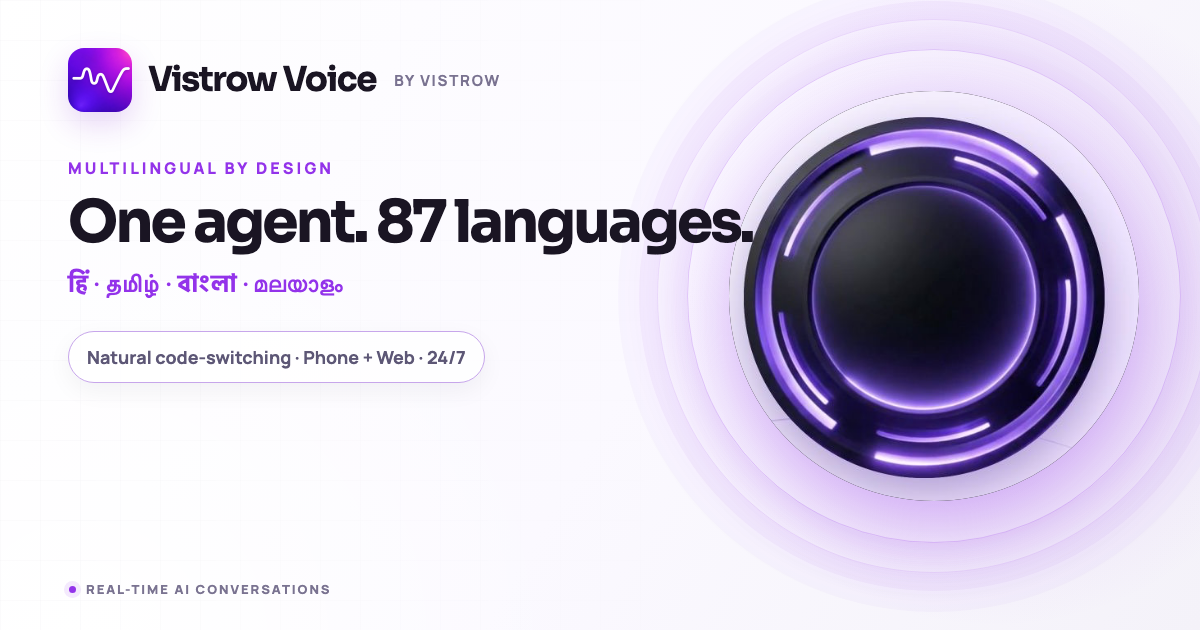
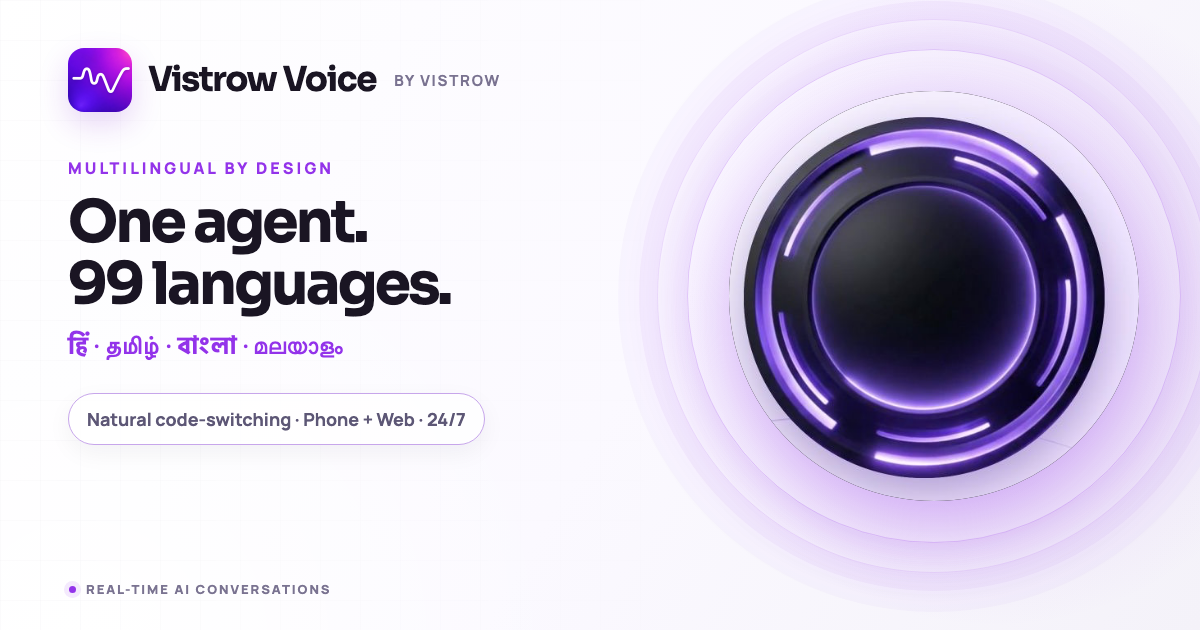
Languages: use Google's published Gemini Live list (99 languages) across the site
- 99 languages = 10 Indian + English + 88 more (was 87 / 76); list rebuilt from ai.google.dev/gemini-api/docs/live-guide
- drops 7 not on Google's list (Haitian Creole, Javanese, Konkani, Latin, Luxembourgish, Maithili, Malagasy); adds 27 (Hausa, Zulu, Welsh, Irish, Uzbek, Kazakh ...)
- the demo picker still offers only the locales the demo can speak (72 of the 99 languages), and the page says so
- home, languages, FAQs, stats, meta tags, llms.txt, social preview cards

Changed region(s): [[0.0308, 0.3921, 0.4008, 0.6937], [0.3083, 0.3016, 0.6475, 0.4222]]

diff --git a/web-demo/src/lib/marketingContent.ts b/web-demo/src/lib/marketingContent.ts
@@ -85,7 +85,7 @@ export const PRODUCT_DETAIL: Record<
     subhead:
       'A no-code builder for real-time AI phone agents. Set the persona, prompt, voice and language - publish, and Artha starts taking calls.',
     features: [
-      { icon: 'translate', title: 'Multilingual', body: 'Speaks 10 Indian languages plus English, including natural Hinglish, and switches mid-call with the caller — plus 76 more worldwide on the global voices.' },
+      { icon: 'translate', title: 'Multilingual', body: 'Speaks 10 Indian languages plus English, including natural Hinglish, and switches mid-call with the caller — plus 88 more worldwide.' },
       { icon: 'menu_book', title: 'Grounded answers', body: 'Ties responses to your knowledge base with strict-mode RAG, so the agent never makes things up.' },
       { icon: 'swap_calls', title: 'Human handoff', body: 'Escalates to a live person with full context when a call needs a human touch.' },
       { icon: 'analytics', title: 'Analytics & transcripts', body: 'Every call is transcribed, scored, and searchable across channels and agents.' },
@@ -592,7 +592,7 @@ export const GLOBAL_GREETINGS: { greeting: string; name: string }[] = [
 ]
 
 export const HERO_STATS = [
-  { value: '87+', label: 'Languages' },
+  { value: '99', label: 'Languages' },
   { value: '24/7', label: 'Always answering' },
   { value: '3', label: 'Inbound · outbound · web' },
 ]
@@ -762,10 +762,105 @@ export interface GlobalLanguage {
   name: string
   native: string
   code: string
-  ga: boolean
 }
 
+/** The languages beyond the ten Indian ones and English, taken from Google's published
+ * Gemini Live API list (99 languages in all: ten Indian + English + these). `code`
+ * is the language code Google uses. Source: ai.google.dev/gemini-api/docs/live-guide */
 export const GLOBAL_LANGUAGES: GlobalLanguage[] = [
+  { name: "Afrikaans", native: "Afrikaans", code: "af" },
+  { name: "Akan", native: "Akan", code: "ak" },
+  { name: "Albanian", native: "Shqip", code: "sq" },
+  { name: "Amharic", native: "አማርኛ", code: "am" },
+  { name: "Arabic", native: "العربية", code: "ar" },
+  { name: "Armenian", native: "Հայերեն", code: "hy" },
+  { name: "Assamese", native: "অসমীয়া", code: "as" },
+  { name: "Azerbaijani", native: "Azərbaycanca", code: "az" },
+  { name: "Basque", native: "Euskara", code: "eu" },
+  { name: "Belarusian", native: "Беларуская", code: "be" },
+  { name: "Bosnian", native: "Bosanski", code: "bs" },
+  { name: "Bulgarian", native: "Български", code: "bg" },
+  { name: "Burmese", native: "မြန်မာ", code: "my" },
+  { name: "Catalan", native: "Català", code: "ca" },
+  { name: "Cebuano", native: "Cebuano", code: "ceb" },
+  { name: "Chinese (Simplified)", native: "中文 (简体)", code: "zh-Hans" },
+  { name: "Chinese (Traditional)", native: "中文 (繁體)", code: "zh-Hant" },
+  { name: "Croatian", native: "Hrvatski", code: "hr" },
+  { name: "Czech", native: "Čeština", code: "cs" },
+  { name: "Danish", native: "Dansk", code: "da" },
+  { name: "Dutch", native: "Nederlands", code: "nl" },
+  { name: "Estonian", native: "Eesti", code: "et" },
+  { name: "Faroese", native: "Føroyskt", code: "fo" },
+  { name: "Filipino", native: "Filipino", code: "fil" },
+  { name: "Finnish", native: "Suomi", code: "fi" },
+  { name: "French", native: "Français", code: "fr" },
+  { name: "Galician", native: "Galego", code: "gl" },
+  { name: "Georgian", native: "ქართული", code: "ka" },
+  { name: "German", native: "Deutsch", code: "de" },
+  { name: "Greek", native: "Ελληνικά", code: "el" },
+  { name: "Hausa", native: "Hausa", code: "ha" },
+  { name: "Hebrew", native: "עברית", code: "he" },
+  { name: "Hungarian", native: "Magyar", code: "hu" },
+  { name: "Icelandic", native: "Íslenska", code: "is" },
+  { name: "Indonesian", native: "Bahasa Indonesia", code: "id" },
+  { name: "Irish", native: "Gaeilge", code: "ga" },
+  { name: "Italian", native: "Italiano", code: "it" },
+  { name: "Japanese", native: "日本語", code: "ja" },
+  { name: "Kazakh", native: "Қазақша", code: "kk" },
+  { name: "Khmer", native: "ខ្មែរ", code: "km" },
+  { name: "Kinyarwanda", native: "Kinyarwanda", code: "rw" },
+  { name: "Korean", native: "한국어", code: "ko" },
+  { name: "Kurdish", native: "Kurdî", code: "ku" },
+  { name: "Kyrgyz", native: "Кыргызча", code: "ky" },
+  { name: "Lao", native: "ລາວ", code: "lo" },
+  { name: "Latvian", native: "Latviešu", code: "lv" },
+  { name: "Lithuanian", native: "Lietuvių", code: "lt" },
+  { name: "Macedonian", native: "Македонски", code: "mk" },
+  { name: "Malay", native: "Bahasa Melayu", code: "ms" },
+  { name: "Maltese", native: "Malti", code: "mt" },
+  { name: "Maori", native: "Māori", code: "mi" },
+  { name: "Mongolian", native: "Монгол", code: "mn" },
+  { name: "Nepali", native: "नेपाली", code: "ne" },
+  { name: "Norwegian", native: "Norsk", code: "no" },
+  { name: "Oromo", native: "Afaan Oromoo", code: "om" },
+  { name: "Pashto", native: "پښتو", code: "ps" },
+  { name: "Persian", native: "فارسی", code: "fa" },
+  { name: "Polish", native: "Polski", code: "pl" },
+  { name: "Portuguese (Brazil)", native: "Português (Brasil)", code: "pt-BR" },
+  { name: "Portuguese (Portugal)", native: "Português (Portugal)", code: "pt-PT" },
+  { name: "Quechua", native: "Runasimi", code: "qu" },
+  { name: "Romanian", native: "Română", code: "ro" },
+  { name: "Romansh", native: "Rumantsch", code: "rm" },
+  { name: "Russian", native: "Русский", code: "ru" },
+  { name: "Serbian", native: "Српски", code: "sr" },
+  { name: "Sindhi", native: "سنڌي", code: "sd" },
+  { name: "Sinhala", native: "සිංහල", code: "si" },
+  { name: "Slovak", native: "Slovenčina", code: "sk" },
+  { name: "Slovenian", native: "Slovenščina", code: "sl" },
+  { name: "Somali", native: "Soomaali", code: "so" },
+  { name: "Southern Sotho", native: "Sesotho", code: "st" },
+  { name: "Spanish", native: "Español", code: "es" },
+  { name: "Swahili", native: "Kiswahili", code: "sw" },
+  { name: "Swedish", native: "Svenska", code: "sv" },
+  { name: "Tajik", native: "Тоҷикӣ", code: "tg" },
+  { name: "Thai", native: "ไทย", code: "th" },
+  { name: "Tswana", native: "Setswana", code: "tn" },
+  { name: "Turkish", native: "Türkçe", code: "tr" },
+  { name: "Turkmen", native: "Türkmençe", code: "tk" },
+  { name: "Ukrainian", native: "Українська", code: "uk" },
+  { name: "Urdu", native: "اردو", code: "ur" },
+  { name: "Uzbek", native: "Oʻzbekcha", code: "uz" },
+  { name: "Vietnamese", native: "Tiếng Việt", code: "vi" },
+  { name: "Welsh", native: "Cymraeg", code: "cy" },
+  { name: "Western Frisian", native: "Frysk", code: "fy" },
+  { name: "Wolof", native: "Wolof", code: "wo" },
+  { name: "Yoruba", native: "Yorùbá", code: "yo" },
+  { name: "Zulu", native: "isiZulu", code: "zu" },
+]
+
+/** The regional locales the live demo can speak today. The picker on /languages offers
+ * these, so it never offers a language that would fail to connect. */
+export const DEMO_GLOBAL_LOCALES: { name: string; native: string; code: string; ga: boolean }[] = [
   { name: "Afrikaans", native: "Afrikaans", code: "af-ZA", ga: false },
   { name: "Albanian", native: "Shqip", code: "sq-AL", ga: false },
   { name: "Amharic", native: "አማርኛ", code: "am-ET", ga: false },
@@ -797,24 +892,17 @@ export const GLOBAL_LANGUAGES: GlobalLanguage[] = [
   { name: "Georgian", native: "ქართული", code: "ka-GE", ga: false },
   { name: "German", native: "Deutsch", code: "de-DE", ga: true },
   { name: "Greek", native: "Ελληνικά", code: "el-GR", ga: false },
-  { name: "Haitian Creole", native: "", code: "ht-HT", ga: false },
   { name: "Hebrew", native: "עברית", code: "he-IL", ga: false },
   { name: "Hungarian", native: "Magyar", code: "hu-HU", ga: false },
   { name: "Icelandic", native: "Íslenska", code: "is-IS", ga: false },
   { name: "Indonesian", native: "Bahasa Indonesia", code: "id-ID", ga: true },
   { name: "Italian", native: "Italiano", code: "it-IT", ga: true },
   { name: "Japanese", native: "日本語", code: "ja-JP", ga: true },
-  { name: "Javanese", native: "", code: "jv-JV", ga: false },
-  { name: "Konkani", native: "कोंकणी", code: "kok-IN", ga: false },
   { name: "Korean", native: "한국어", code: "ko-KR", ga: true },
   { name: "Lao", native: "ລາວ", code: "lo-LA", ga: false },
-  { name: "Latin", native: "", code: "la-VA", ga: false },
   { name: "Latvian", native: "Latviešu", code: "lv-LV", ga: false },
   { name: "Lithuanian", native: "Lietuvių", code: "lt-LT", ga: false },
-  { name: "Luxembourgish", native: "", code: "lb-LU", ga: false },
   { name: "Macedonian", native: "Македонски", code: "mk-MK", ga: false },
-  { name: "Maithili", native: "मैथिली", code: "mai-IN", ga: false },
-  { name: "Malagasy", native: "", code: "mg-MG", ga: false },
   { name: "Malay", native: "Bahasa Melayu", code: "ms-MY", ga: false },
   { name: "Mongolian", native: "Монгол", code: "mn-MN", ga: false },
   { name: "Nepali", native: "नेपाली", code: "ne-NP", ga: false },

diff --git a/web-demo/src/pages/marketing/LanguagesOverview.tsx b/web-demo/src/pages/marketing/LanguagesOverview.tsx
@@ -6,14 +6,16 @@ import { Seo } from '../../components/Seo'
 import { CTABand, SectionEyebrow } from '../../components/MarketingBits'
 import { Reveal } from '../../components/Reveal'
 import { DemoOrbCard } from '../../components/DemoOrbCard'
-import { GLOBAL_LANGUAGES, LANGUAGES } from '../../lib/marketingContent'
+import { DEMO_GLOBAL_LOCALES, GLOBAL_LANGUAGES, LANGUAGES } from '../../lib/marketingContent'
 
 export function LanguagesOverview() {
+  // Languages, not locales: the demo's regional variants (en-GB/en-US, es-ES/es-MX) count once.
+  const demoLanguages = demoLanguageCount()
   return (
     <MarketingLayout>
       <Seo
-        title="AI Voice Agents in 10 Indian Languages + 76 More | Vistrow Voice"
-        description="Artha answers in Hindi, Marathi, Tamil, Telugu, Kannada, Bengali, Gujarati, Malayalam, Punjabi, Odia and English - plus French, German, Spanish, Japanese, Arabic and 70 more. Pick a language and try it live."
+        title="AI Voice Agents in 99 Languages, 10 of them Indian | Vistrow Voice"
+        description="Artha answers in Hindi, Marathi, Tamil, Telugu, Kannada, Bengali, Gujarati, Malayalam, Punjabi, Odia and English - plus French, German, Spanish, Japanese, Arabic and 82 more, 99 languages in all. Pick a language and try it live."
         path="/languages"
       />
 
@@ -24,8 +26,8 @@ export function LanguagesOverview() {
         </h1>
         <p className="mx-auto mt-5 max-w-xl text-lg text-text-muted">
           Artha speaks 10 Indian languages plus English, and switches mid-call when the caller does - including
-          the everyday mixed speech most people actually use on the phone. On the global voices, that same
-          agent also handles {GLOBAL_LANGUAGES.length} more, from French to Japanese.
+          the everyday mixed speech most people actually use on the phone. That same agent also handles
+          {GLOBAL_LANGUAGES.length} more, from French to Japanese: 99 languages in all.
         </p>
       </section>
 
@@ -66,8 +68,9 @@ export function LanguagesOverview() {
           And {GLOBAL_LANGUAGES.length} more, on the same agent.
         </h2>
         <p className="mt-3 max-w-2xl text-text-muted">
-          The Indian languages above are the ones we build for. These come with the global voices — the
-          same agent, the same call, no separate setup. Pick any of them in the demo above.
+          The Indian languages above are the ones we build for. These are the languages Google’s realtime
+          voice models cover — the same agent, the same call, no separate setup. The live demo above can
+          run {demoLanguages} of the 99 today.
         </p>
         {/* Chips, not cards: there are too many to give each one a tile, and
             unlike the Indian languages these do not each have a page behind
@@ -77,7 +80,7 @@ export function LanguagesOverview() {
             <li
               key={l.code}
               className="rounded-full border border-border bg-surface px-3.5 py-1.5 text-sm"
-              title={`${l.name} · ${l.code}${l.ga ? '' : ' · preview'}`}
+              title={`${l.name} · ${l.code}`}
             >
               <span className="font-medium">{l.native || l.name}</span>
               {l.native && l.native !== l.name ? (
@@ -132,14 +135,14 @@ export function LanguagesOverview() {
 function TryALanguage() {
   // The native 10 first (that is the product's centre of gravity), then
   // everything the global voices add, grouped so the list is navigable
-  // rather than one 86-item dropdown.
+  // rather than one long dropdown.
   const nativeOptions = useMemo(
     () => LANGUAGES.map((l) => ({ code: l.code, label: l.name, native: l.native })),
     [],
   )
   const globalOptions = useMemo(
     () =>
-      GLOBAL_LANGUAGES.map((l) => ({
+      DEMO_GLOBAL_LOCALES.map((l) => ({
         code: l.code,
         label: l.name,
         native: l.native || l.name,
@@ -192,7 +195,7 @@ function TryALanguage() {
             </optgroup>
           </select>
           <p className="mt-3 text-xs text-text-muted">
-            {nativeOptions.length + globalOptions.length} languages available on this demo.
+            {nativeOptions.length + globalOptions.length} languages available in this demo.
           </p>
           <p className="mt-5 max-w-sm rounded-xl border border-border bg-bg px-4 py-3 text-sm leading-relaxed text-text-muted">
             Selected: <span className="font-semibold text-text">{selected?.label ?? 'Hindi'}</span>. Ask Artha
@@ -209,4 +212,15 @@ function TryALanguage() {
       </div>
     </section>
   )
+}
+
+function demoLanguageCount(): number {
+  const base = (code: string) => {
+    if (code === 'cmn-CN') return 'zh-Hans'
+    if (code === 'cmn-tw') return 'zh-Hant'
+    if (code === 'nn-NO' || code === 'nb-NO') return 'no'
+    if (code === 'pt-BR' || code === 'pt-PT') return code
+    return code.split('-')[0]
+  }
+  return new Set([...LANGUAGES, ...DEMO_GLOBAL_LOCALES].map((l) => base(l.code === 'od-IN' ? 'or-IN' : l.code))).size
 }

diff --git a/web-demo/src/lib/seoPages.ts b/web-demo/src/lib/seoPages.ts
@@ -106,9 +106,9 @@ export const SEO_PAGES: SeoPage[] = [
   page(
     '/',
     'Multilingual AI Voice Agents for Phone & Web | Vistrow Voice',
-    'Build AI voice agents that answer, qualify, support, and book customers across phone and web in 87 languages, with real-time language switching.',
+    'Build AI voice agents that answer, qualify, support, and book customers across phone and web in 99 languages, with real-time language switching.',
     'home',
-    'Vistrow Voice multilingual AI voice agent orb with support for 87 languages across phone and web',
+    'Vistrow Voice multilingual AI voice agent orb with support for 99 languages across phone and web',
     'home',
     'Home',
   ),
@@ -231,8 +231,8 @@ export const SEO_PAGES: SeoPage[] = [
   ),
   page(
     '/languages',
-    'Multilingual AI Voice Agents in 87 Languages | Vistrow Voice',
-    'Talk to Artha in 10 Indian languages plus English and 76 additional global languages, with natural code-switching during customer calls.',
+    'Multilingual AI Voice Agents in 99 Languages | Vistrow Voice',
+    'Talk to Artha in 10 Indian languages plus English and 88 additional global languages, with natural code-switching during customer calls.',
     'languages',
     'Vistrow Voice multilingual AI orb surrounded by Indian and global language scripts',
     'collection',
@@ -582,7 +582,7 @@ export function baseStructuredData(entry: SeoPage): object[] {
 // renders these definitions with the real Vistrow mark and a frame from the
 // real production orb video.
 export const OG_CARD_BY_IMAGE: Record<string, OgCardSpec> = {
-  home: { eyebrow: 'MULTILINGUAL VOICE AI', headline: 'Voice AI that speaks your customer\u2019s language.', proof: '87 languages  \u00b7  Phone + Web  \u00b7  24/7', accent: '#9333ea', hue: '0deg' },
+  home: { eyebrow: 'MULTILINGUAL VOICE AI', headline: 'Voice AI that speaks your customer\u2019s language.', proof: '99 languages  \u00b7  Phone + Web  \u00b7  24/7', accent: '#9333ea', hue: '0deg' },
   product: { eyebrow: 'VISTROW VOICE PLATFORM', headline: 'Everything you need to run voice AI.', proof: 'Build  \u00b7  Call  \u00b7  Learn  \u00b7  Integrate', accent: '#9333ea', hue: '0deg' },
   'product-agents': { eyebrow: 'VOICE AGENTS', headline: 'Build a voice agent in minutes.', proof: 'Persona  \u00b7  Knowledge  \u00b7  Voice  \u00b7  Tools', accent: '#9333ea', hue: '0deg' },
   'product-inbound': { eyebrow: 'INBOUND CALLING', headline: 'Answer every call. Day or night.', proof: 'Qualify  \u00b7  Answer  \u00b7  Book  \u00b7  Route', accent: '#0e7490', hue: '-91deg' },
@@ -596,7 +596,7 @@ export const OG_CARD_BY_IMAGE: Record<string, OgCardSpec> = {
   'solution-ecommerce': { eyebrow: 'E-COMMERCE & D2C', headline: 'Support that scales with every sale.', proof: 'Orders  \u00b7  Delivery  \u00b7  Returns  \u00b7  Follow-up', accent: '#db2777', hue: '57deg' },
   'solution-finance': { eyebrow: 'FINANCE & COLLECTIONS', headline: 'Collections conversations, handled with care.', proof: 'Respectful reminders  \u00b7  Logged outcomes  \u00b7  Controls', accent: '#047857', hue: '-126deg' },
   'solution-support': { eyebrow: 'SUPPORT & HELPDESK', headline: 'Resolve tier-one issues on the first call.', proof: 'Troubleshoot  \u00b7  Resolve  \u00b7  Escalate with context', accent: '#0e7490', hue: '-91deg' },
-  languages: { eyebrow: 'MULTILINGUAL BY DESIGN', headline: 'One agent. 87 languages.', proof: 'Natural code-switching  \u00b7  Phone + Web  \u00b7  24/7', accent: '#9333ea', hue: '0deg', native: 'हिं  ·  தமிழ்  ·  বাংলা  ·  മലയാളം' },
+  languages: { eyebrow: 'MULTILINGUAL BY DESIGN', headline: 'One agent. 99 languages.', proof: 'Natural code-switching  \u00b7  Phone + Web  \u00b7  24/7', accent: '#9333ea', hue: '0deg', native: 'हिं  ·  தமிழ்  ·  বাংলা  ·  മലയാളം' },
   'language-hindi': { eyebrow: 'HINDI AI VOICE AGENT', headline: 'हिन्दी calls, handled naturally.', proof: 'Hindi + English  \u00b7  Inbound  \u00b7  Outbound  \u00b7  Web', accent: '#9333ea', hue: '0deg', native: 'हिन्दी' },
   'language-marathi': { eyebrow: 'MARATHI AI VOICE AGENT', headline: 'मराठी calls, handled naturally.', proof: 'Marathi + English  \u00b7  Inbound  \u00b7  Outbound  \u00b7  Web', accent: '#9333ea', hue: '0deg', native: 'मराठी' },
   'language-tamil': { eyebrow: 'TAMIL AI VOICE AGENT', headline: 'தமிழ் calls, handled naturally.', proof: 'Tamil + English  \u00b7  Inbound  \u00b7  Outbound  \u00b7  Web', accent: '#9333ea', hue: '0deg', native: 'தமிழ்' },

diff --git a/web-demo/src/pages/marketing/Home.tsx b/web-demo/src/pages/marketing/Home.tsx
@@ -23,7 +23,7 @@ import {
 const FAQ = [
   {
     q: 'What is Vistrow Voice?',
-    a: 'An AI voice-agent platform for Indian businesses - Artha answers, qualifies, and books inbound, outbound, and web calls in 10 Indian languages plus English, live 24/7. On the global voices it also handles 76 more, from French to Japanese.',
+    a: 'An AI voice-agent platform for Indian businesses - Artha answers, qualifies, and books inbound, outbound, and web calls in 99 languages, live 24/7: 10 Indian languages, English, and 88 more from French to Japanese.',
   },
   {
     q: 'Do I need to write code to set it up?',
@@ -31,7 +31,7 @@ const FAQ = [
   },
   {
     q: 'Which languages does Artha speak?',
-    a: 'Hindi, Marathi, Tamil, Telugu, Kannada, Malayalam, Gujarati, Bengali, Punjabi, and Odia - plus English and everyday code-switching such as Hinglish. The global voices add 76 more, including French, German, Spanish, Arabic and Japanese.',
+    a: 'Hindi, Marathi, Tamil, Telugu, Kannada, Malayalam, Gujarati, Bengali, Punjabi, and Odia - plus English and everyday code-switching such as Hinglish. The same agent handles 88 more, including French, German, Spanish, Arabic and Japanese.',
   },
   {
     q: 'Can I try it before signing up?',
@@ -169,7 +169,7 @@ export function Home() {
           </h1>
           <p className="mt-4 max-w-xl text-base leading-7 text-text-muted sm:mt-5 sm:text-lg sm:leading-relaxed">
             Vistrow Voice is voice AI built for how India actually speaks. Answer, qualify, and book customers across phone and
-            web in 87+ languages (10 Indian languages plus English, and 76 more worldwide) with natural Hinglish and
+            web in 99 languages (10 Indian languages plus English, and 88 more worldwide) with natural Hinglish and
             mid-sentence language switching.
           </p>
           <div className="mt-6 flex flex-wrap gap-3">
@@ -286,7 +286,7 @@ export function Home() {
               <div className="relative flex flex-col gap-6 md:flex-row md:items-center md:justify-between">
                 <div className="md:max-w-md">
                   <div className="flex items-start justify-between gap-4">
-                    <h3 className="font-display text-lg font-semibold">Ten Indian languages plus 76 more, one agent</h3>
+                    <h3 className="font-display text-lg font-semibold">Ten Indian languages plus 88 more, one agent</h3>
                     <span
                       aria-hidden="true"
                       className="shrink-0 font-display text-2xl text-text-muted transition-colors group-hover:text-primary md:hidden"
@@ -330,7 +330,7 @@ export function Home() {
                     </li>
                   ))}
                   <li className="rounded-full border border-primary/30 bg-primary/5 px-3 py-1.5 font-display text-sm font-semibold text-primary">
-                    +76 more
+                    +88 more
                   </li>
                 </ul>
               </div>
@@ -483,7 +483,7 @@ export function Home() {
         <div className="grid gap-5 md:grid-cols-3">
           {[
             ['mic', 'Live voice and chat', 'Test real conversations in the browser, by phone, or through your website.'],
-            ['translate', '87+ languages, one agent', 'One agent handles natural code-switching without separate language deployments.'],
+            ['translate', '99 languages, one agent', 'One agent handles natural code-switching without separate language deployments.'],
             ['analytics', 'Calls, transcripts and feedback', 'Review outcomes, recordings, ratings, and operational analytics in one dashboard.'],
           ].map(([icon, title, body], i) => (
             <Reveal key={title} delayMs={i * 70} className="h-full">

diff --git a/web-demo/index.html b/web-demo/index.html
@@ -12,7 +12,7 @@
     <title>Multilingual AI Voice Agents for Phone &amp; Web | Vistrow Voice</title>
     <meta
       name="description"
-      content="Build AI voice agents that answer, qualify, support, and book customers across phone and web in 87 languages, with real-time language switching."
+      content="Build AI voice agents that answer, qualify, support, and book customers across phone and web in 99 languages, with real-time language switching."
     />
     <meta name="robots" content="index, follow" />
     <link rel="canonical" href="https://www.vistrowvoice.com/" />
@@ -23,7 +23,7 @@
     <meta property="og:title" content="Multilingual AI Voice Agents for Phone &amp; Web | Vistrow Voice" />
     <meta
       property="og:description"
-      content="Build AI voice agents that answer, qualify, support, and book customers across phone and web in 87 languages, with real-time language switching."
+      content="Build AI voice agents that answer, qualify, support, and book customers across phone and web in 99 languages, with real-time language switching."
     />
     <meta property="og:url" content="https://www.vistrowvoice.com/" />
     <meta property="og:image" content="https://www.vistrowvoice.com/og/home.png" />
@@ -31,15 +31,15 @@
     <meta property="og:image:type" content="image/png" />
     <meta property="og:image:width" content="1200" />
     <meta property="og:image:height" content="630" />
-    <meta property="og:image:alt" content="Vistrow Voice multilingual AI voice agent orb with support for 87 languages across phone and web" />
+    <meta property="og:image:alt" content="Vistrow Voice multilingual AI voice agent orb with support for 99 languages across phone and web" />
     <meta name="twitter:card" content="summary_large_image" />
     <meta name="twitter:title" content="Multilingual AI Voice Agents for Phone &amp; Web | Vistrow Voice" />
     <meta
       name="twitter:description"
-      content="Build AI voice agents that answer, qualify, support, and book customers across phone and web in 87 languages, with real-time language switching."
+      content="Build AI voice agents that answer, qualify, support, and book customers across phone and web in 99 languages, with real-time language switching."
     />
     <meta name="twitter:image" content="https://www.vistrowvoice.com/og/home.png" />
-    <meta name="twitter:image:alt" content="Vistrow Voice multilingual AI voice agent orb with support for 87 languages across phone and web" />
+    <meta name="twitter:image:alt" content="Vistrow Voice multilingual AI voice agent orb with support for 99 languages across phone and web" />
     <!-- Google tag (gtag.js). send_page_view is off because this is a
          client-side-routed SPA - the initial load and every in-app
          navigation both fire through src/lib/analytics.ts instead, so

diff --git a/web-demo/src/components/MarketingBits.tsx b/web-demo/src/components/MarketingBits.tsx
@@ -102,7 +102,7 @@ export function CTABand({
                 voice demo: having to sign up, not knowing what it costs, and
                 not expecting it to handle their language. */}
             <ul className="mt-6 flex flex-wrap justify-center gap-x-5 gap-y-2 text-sm text-text-muted lg:justify-start">
-              {['No signup needed', '5 free calls', '87 languages'].map((item) => (
+              {['No signup needed', '5 free calls', '99 languages'].map((item) => (
                 <li key={item} className="flex items-center gap-1.5">
                   <Icon name="check_circle" className="text-[16px] text-primary" />
                   {item}

diff --git a/launch-assets/og-card-source.html b/launch-assets/og-card-source.html
@@ -56,7 +56,7 @@
     <h1>Voice AI that speaks<br />your customer’s language.</h1>
     <div class="fact">
       <svg viewBox="0 0 24 24" fill="none" stroke-width="1.8"><circle cx="12" cy="12" r="9"/><path d="M3 12h18M12 3c3 3 4.2 6 4.2 9S15 18 12 21c-3-3-4.2-6-4.2-9S9 6 12 3Z"/></svg>
-      <span>87 languages · phone + web</span>
+      <span>99 languages · phone + web</span>
     </div>
     <div class="fact">
       <svg viewBox="0 0 24 24" fill="none" stroke-width="1.8"><path d="M4 13v-2a8 8 0 0 1 16 0v2M4 13H2v5h4v-5H4Zm16 0h2v5h-4v-5h2Z"/><path d="M18 18c0 2-1.5 3-4 3"/></svg>
